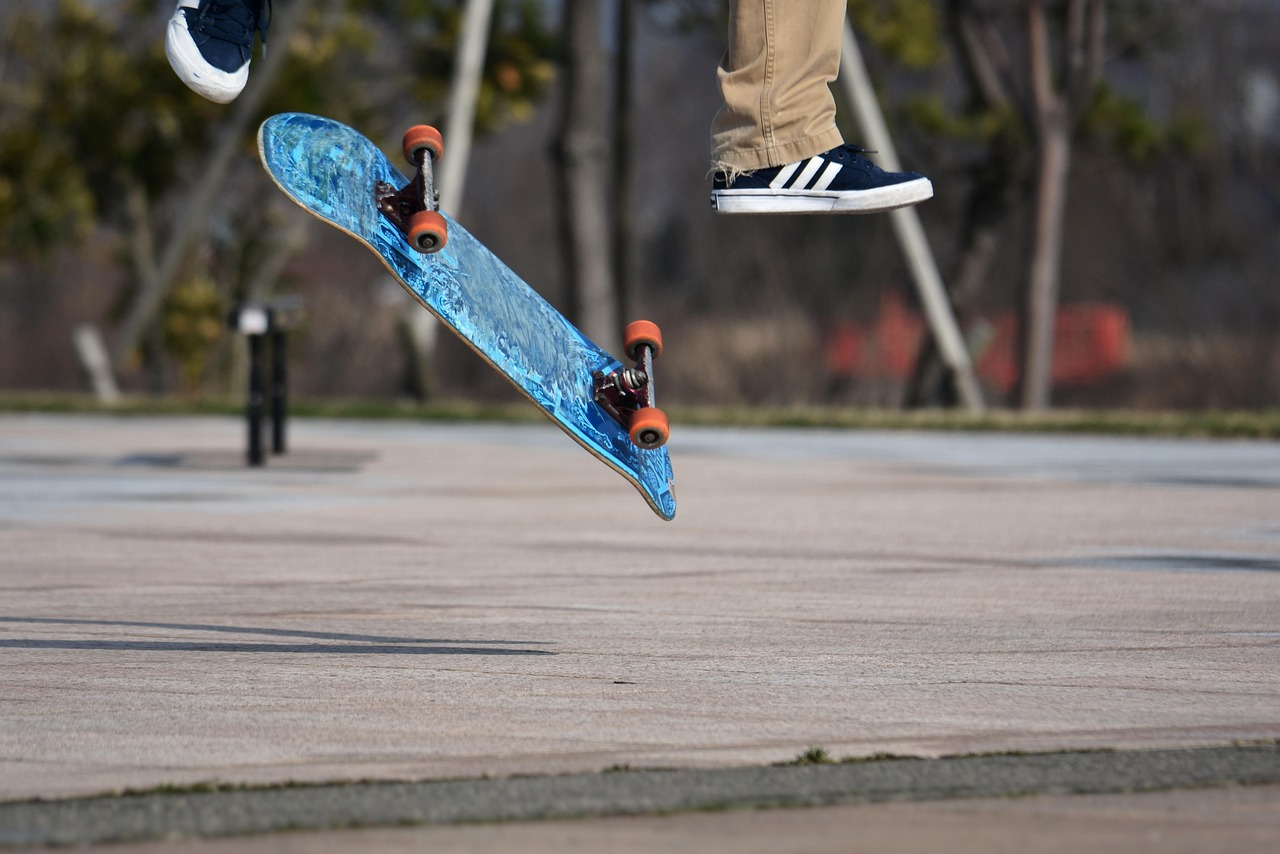
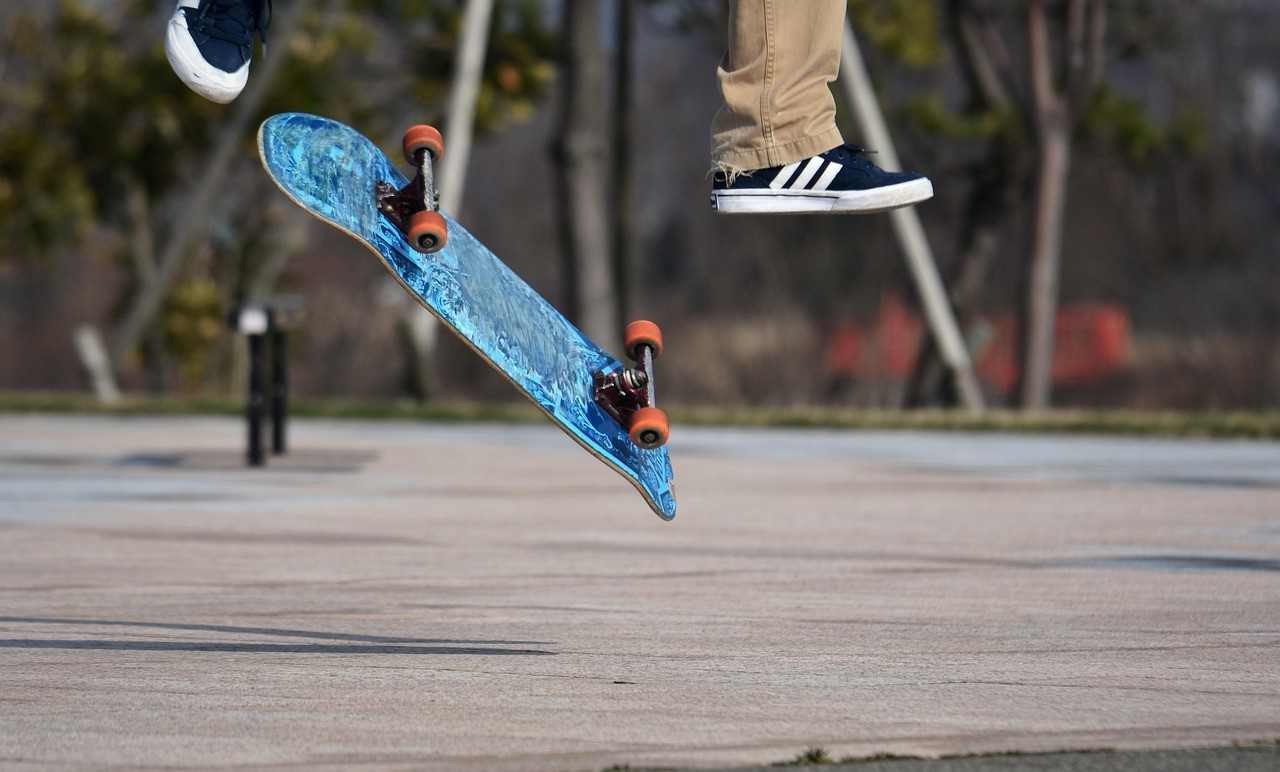
Navigation vers détail

diff --git a/lib/widgets/sport_card.dart b/lib/widgets/sport_card.dart
@@ -1,49 +1,54 @@
 import 'package:flutter/material.dart';
 import 'package:flutter_sport/model/sport.dart';
 
+
 class SportCard extends StatelessWidget {
-  const SportCard({super.key, required this.sport});
+  const SportCard({super.key, required this.sport, required this.onSelectDetail});
 
   final Sport sport;
+  final void Function() onSelectDetail;
 
   @override
   Widget build(BuildContext context) {
     var text = sport.name;
 
     String img;
-    if (text == 'Escalade') {
+    if (text == 'escalade') {
       img = "assets/images/escalade.jpg";
-    } else if (text == 'Ski') {
+    } else if (text == 'ski') {
       img = "assets/images/ski.jpg";
-    } else if (text == 'Surf') {
+    } else if (text == 'surf') {
       img = "assets/images/surf.jpg";
-    } else if (text == 'Yoga') {
+    } else if (text == 'yoga') {
       img = "assets/images/yoga.jpg";
     } else {
       img = "assets/images/skate.jpg";
     }
 
-    return Column(
-      children: [
-        Stack(
-          alignment: Alignment.center,
-          children: [
-            ClipRRect(
-              borderRadius: BorderRadius.circular(15),
-              child: Image.asset(img, width: 360, fit: BoxFit.cover),
-            ),
-            Text(
-              text,
-              style: TextStyle(
-                fontSize: 24,
-                fontWeight: FontWeight.bold,
-                color: Color.fromARGB(255, 221, 221, 221),
+    return GestureDetector(
+      onTap: onSelectDetail,
+      child: Column(
+        children: [
+          Stack(
+            alignment: Alignment.center,
+            children: [
+              ClipRRect(
+                borderRadius: BorderRadius.circular(15),
+                child: Image.asset(img, width: 360, height: 250, fit: BoxFit.cover),
               ),
-            ),
-          ],
-        ),
-        SizedBox(height: 20,),
-      ],
+              Text(
+                text,
+                style: TextStyle(
+                  fontSize: 24,
+                  fontWeight: FontWeight.bold,
+                  color: Color.fromARGB(255, 221, 221, 221),
+                ),
+              ),
+            ],
+          ),
+          SizedBox(height: 20,),
+        ],
+      ),
     );
   }
 }

diff --git a/lib/screens/detail.dart b/lib/screens/detail.dart
@@ -1,0 +1,55 @@
+import 'package:flutter/material.dart';
+import 'package:flutter_sport/model/sport.dart';
+
+class Detail extends StatelessWidget {
+  const Detail({super.key, required this.sport});
+
+  final Sport sport;
+
+  @override
+  Widget build(BuildContext context) {
+    return Scaffold(
+      backgroundColor: Color.fromARGB(255, 254, 102, 0),
+      appBar: AppBar(
+        backgroundColor: Color.fromARGB(255, 254, 102, 0),
+        leading: IconButton(
+          icon: Icon(Icons.arrow_back, color: Colors.white),
+          onPressed: () {
+            Navigator.of(context).pop();
+          },
+        ),
+        title: Text("Réservation", style: TextStyle(color: Colors.white)),
+      ),
+      body: Padding(
+        padding: const EdgeInsets.all(20.0),
+        child: Column(
+          children: [
+            Center(
+              child: ClipRRect(
+                borderRadius: BorderRadius.circular(15),
+                child: Image.asset('assets/images/${sport.name}.jpg', width: 360),
+              ),
+            ),
+            SizedBox(height: 30),
+            Text(
+              sport.description,
+              style: TextStyle(color: Colors.white, fontSize: 17),
+              textAlign: TextAlign.center,
+            ),
+            SizedBox(height: 100),
+            Row(
+              mainAxisAlignment: MainAxisAlignment.center,
+              children: [
+                Text(
+                  "Veuillez sélectionner une date : ",
+                  style: TextStyle(color: Colors.white, fontSize: 17),
+                ),
+                Icon(Icons.edit_calendar, color: Colors.white),
+              ],
+            ),
+          ],
+        ),
+      ),
+    );
+  }
+}

diff --git a/lib/data/data.dart b/lib/data/data.dart
@@ -9,38 +9,43 @@ const lesSaisons = [
 
 const sports = [
   Sport(
-    name: 'Escalade',
+    name: 'escalade',
     saisons: ['Été'],
     isForChildren: true,
     isForPregnantWomen: false,
     isForbeginner: true,
+    description: "Dans notre équipe, nous avons des grimpeurs professionnels diplômés du DE d'escalade qui organisent des sessions sur roche vers la frontière espagnole, à côté de Bielsa."
   ),
   Sport(
-    name: 'Ski',
+    name: 'ski',
     saisons: ['Hiver'],
     isForChildren: true,
     isForPregnantWomen: false,
     isForbeginner: true,
+    description: "Dans notre équipe, nous avons des moniteurs de ski et des champions de freeride qui organisent des sorties ski."
   ),
   Sport(
-    name: 'Yoga',
+    name: 'yoga',
     saisons: ['Été','Hiver'],
     isForChildren: true,
     isForPregnantWomen: true,
     isForbeginner: true,
+    description: "Dans notre équipe, nous avons des coachs de yoga qui proposent de temps en temps des cours."
   ),
   Sport(
-    name: 'Skate',
+    name: 'skate',
     saisons: ['Été'],
     isForChildren: true,
     isForPregnantWomen: false,
     isForbeginner: true,
+    description: "Dans notre équipe, nous avons des skaters professionnels qui pourront vous apprendre et vous accompagner dans cette discipline."
   ),
   Sport(
-    name: 'Surf',
+    name: 'surf',
     saisons:['Été'],
     isForChildren: true,
     isForPregnantWomen: false,
     isForbeginner: false,
+    description: "Dans notre équipe, nous avons des surfers professionnels qui organisent des sessions de surf vers la côte basque et les landes."
   ),
 ];

diff --git a/lib/screens/activities.dart b/lib/screens/activities.dart
@@ -1,5 +1,6 @@
 import 'package:flutter/material.dart';
 import 'package:flutter_sport/model/sport.dart';
+import 'package:flutter_sport/screens/detail.dart';
 import 'package:flutter_sport/widgets/sport_card.dart';
 
 class Activities extends StatelessWidget {
@@ -9,6 +10,14 @@ class Activities extends StatelessWidget {
 
   @override
   Widget build(BuildContext context) {
+    void _selectedCategory(BuildContext context, Sport sport) {
+      final filteredSport = sport.name;
+
+      Navigator.of(
+        context,
+      ).push(MaterialPageRoute(builder: (ctx) => Detail(sport: sport)));
+    }
+
     return Scaffold(
       backgroundColor: Color.fromARGB(255, 254, 102, 0),
       appBar: AppBar(
@@ -23,7 +32,23 @@ class Activities extends StatelessWidget {
       ),
       body: ListView.builder(
         itemCount: type.length,
-        itemBuilder: (ctx, index) => SportCard(sport: type[index]),
+        itemBuilder:
+            (ctx, index) => SportCard(
+              sport: type[index],
+              onSelectDetail: () {
+                _selectedCategory(
+                  context,
+                  Sport(
+                    name: type[index].name,
+                    saisons: type[index].saisons,
+                    isForChildren: type[index].isForChildren,
+                    isForPregnantWomen: type[index].isForPregnantWomen,
+                    isForbeginner: type[index].isForbeginner,
+                    description: type[index].description,
+                  ),
+                );
+              },
+            ),
       ),
     );
   }

diff --git a/lib/model/sport.dart b/lib/model/sport.dart
@@ -6,7 +6,8 @@ class Sport{
     required this.saisons,
     required this.isForChildren,
     required this.isForPregnantWomen,
-    required this.isForbeginner
+    required this.isForbeginner,
+    required this.description
   });
 
   final String name;
@@ -14,4 +15,5 @@ class Sport{
   final bool isForChildren;
   final bool isForPregnantWomen;
   final bool isForbeginner;
+  final String description;
 }

diff --git a/lib/widgets/category.dart b/lib/widgets/category.dart
@@ -1,6 +1,5 @@
 import 'package:flutter/material.dart';
 import 'package:flutter_sport/model/Saison.dart';
-import 'package:flutter_sport/screens/activities.dart';
 
 class Category extends StatelessWidget {
   const Category({super.key, required this.saison, required this.onSelect});
